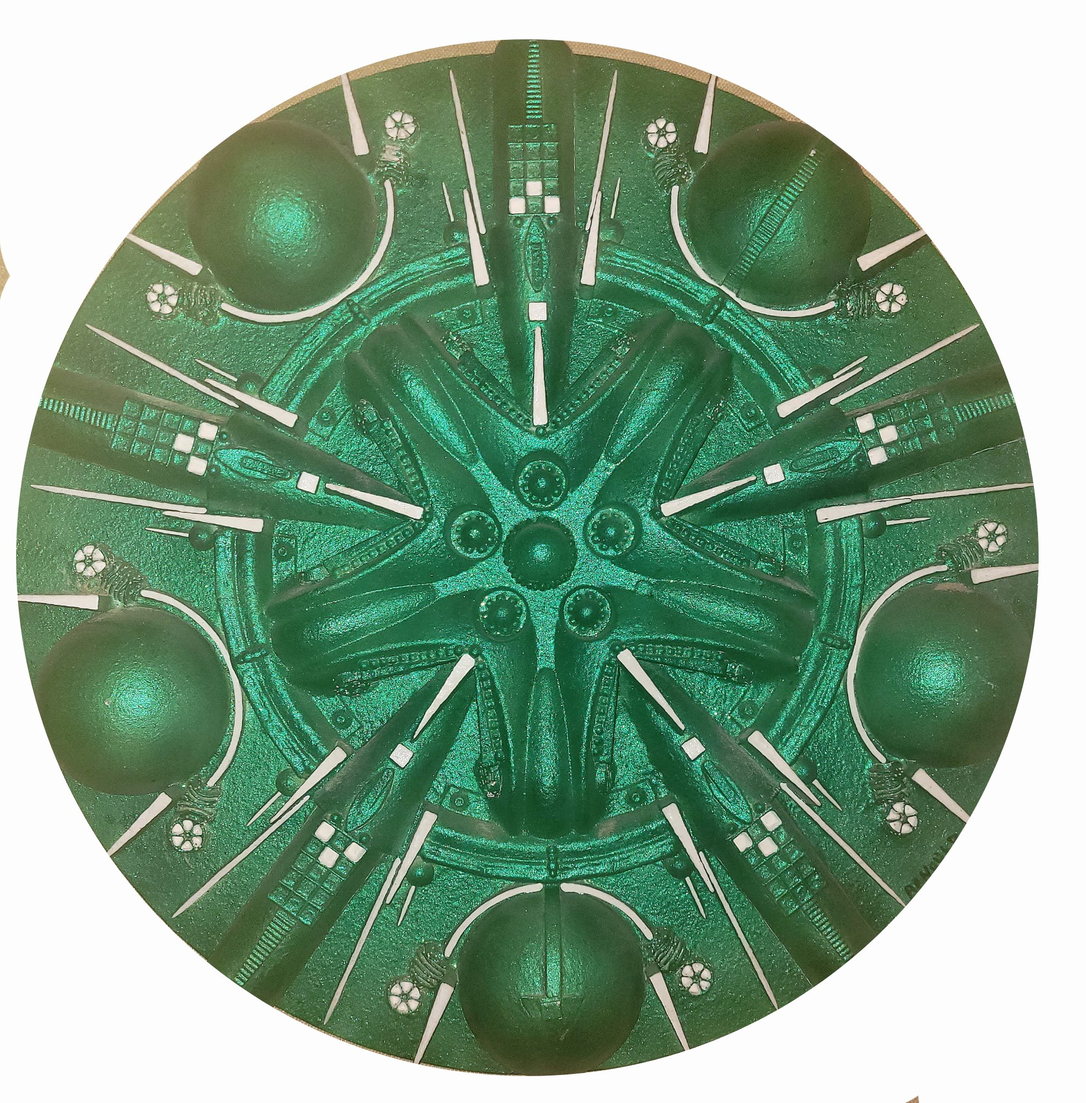
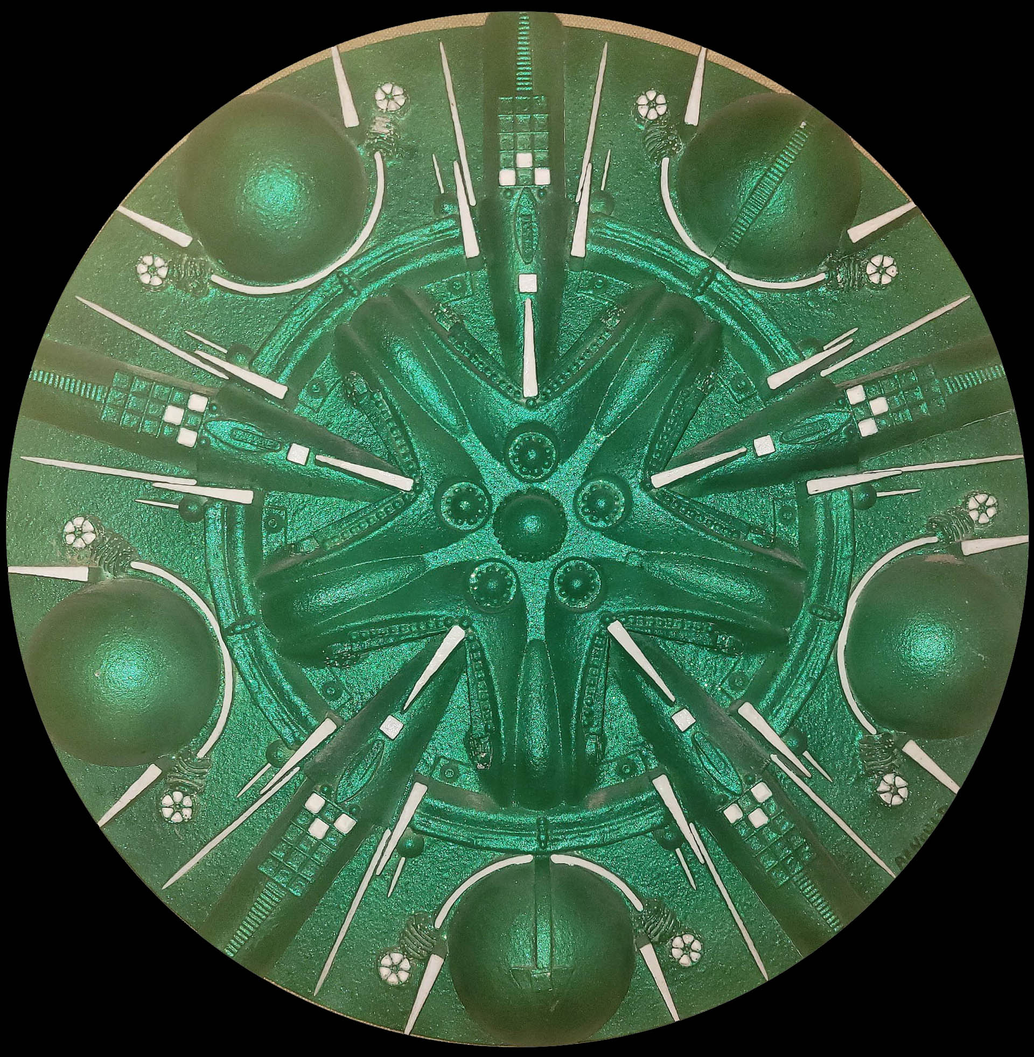
premier fichier wep

diff --git a/src/app/tondo/page.tsx b/src/app/tondo/page.tsx
@@ -52,10 +52,13 @@ export default function TondoPage() {
         </div>
       )}
 
-      <div className="bg-white min-h-screen text-gray-900 flex flex-col items-center justify-center md:p-6">
+      <div className="bg-black min-h-screen text-gray-900 flex flex-col items-center justify-center md:p-6">
         <div className="grid grid-cols-1 md:grid-cols-3 gap-6 px-4 md:px-0">
           {works.map((work, idx) => (
-            <div key={idx} className="flex flex-col items-center">
+            <div key={idx}   className="flex flex-col items-center justify-center text-center
+              bg-white/10 backdrop-blur-sm border border-white/20 
+              rounded-xl shadow-lg hover:shadow-2xl hover:scale-[1.02]
+              transition-all duration-500 ease-in-out w-full max-w-sm p-8">
               <div className="relative w-1/2 md:w-1/2">
                 <img
                   src={work.image}
